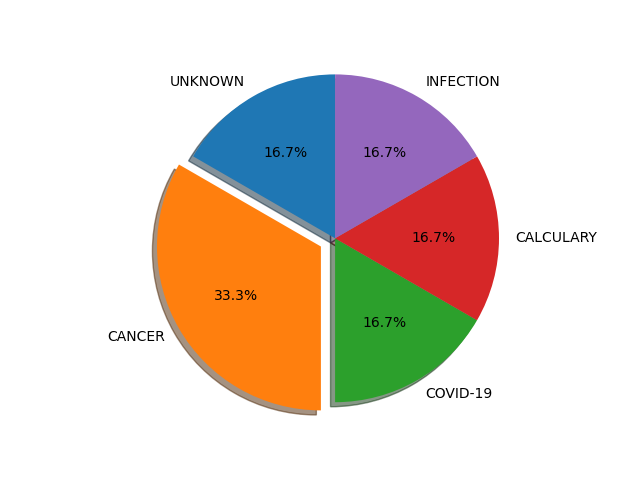
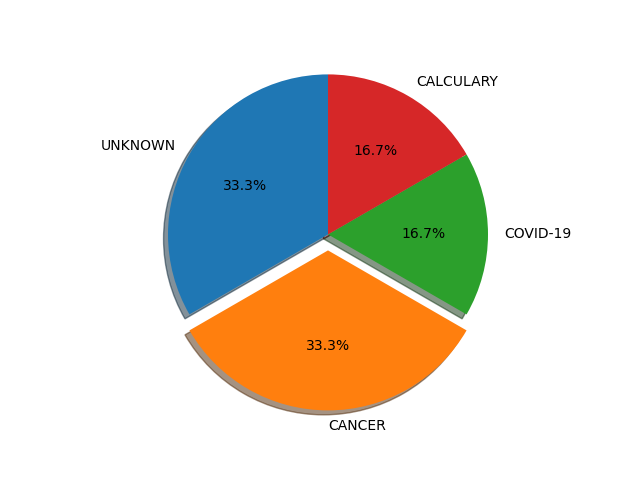
Bug fixed!

diff --git a/hospital/views.py b/hospital/views.py
@@ -615,6 +615,7 @@ def stats(request):
                         from patient
                         group by gender;""")
         temp = cur.fetchall()
+        print(temp)
         new_dict = {}
         for stat in temp:
             new_dict[stat['GENDER']] = stat['count(id)']
@@ -631,6 +632,7 @@ def stats(request):
                         from doctor
                         group by department;""")
         temp = cur.fetchall()
+        print(temp)
         new_dict = {}
         for stat in temp:
             new_dict[stat['DEPARTMENT']] = stat['count(id)']
@@ -647,6 +649,7 @@ def stats(request):
                         from doctor
                         group by title;""")
         temp = cur.fetchall()
+        print(temp)
         new_dict = {}
         for stat in temp:
             new_dict[stat['TITLE']] = stat['count(id)']
@@ -669,7 +672,7 @@ def stats(request):
         for stat in temp:
             new_dict[stat['NAME']] = stat['COUNT(VP.ID)']
         # Pie chart, where the slices will be ordered and plotted counter-clockwise:
-        explode = (0, 0.1, 0, 0, 0)  # only "explode" the 2nd slice (i.e. 'Hogs')
+        explode = (0, 0.1, 0, 0)  # only "explode" the 2nd slice (i.e. 'Hogs')
         fig1, ax1 = plt.subplots()
         ax1.pie(new_dict.values(), explode=explode, labels=new_dict.keys(), autopct='%1.1f%%',
                 shadow=True, startangle=90)
